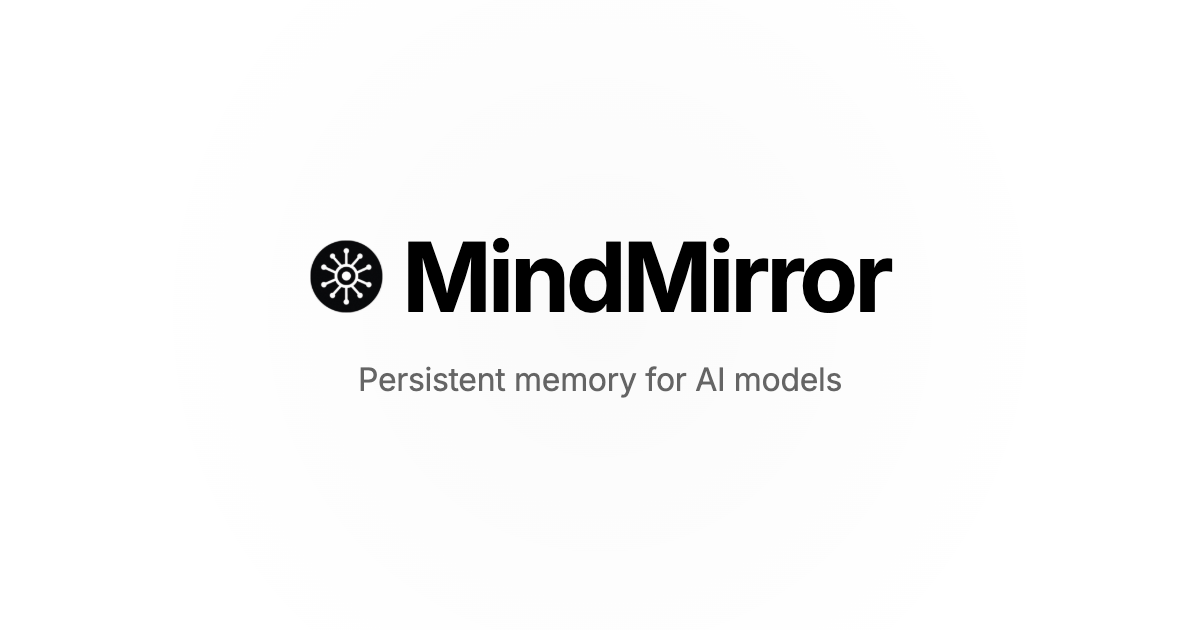
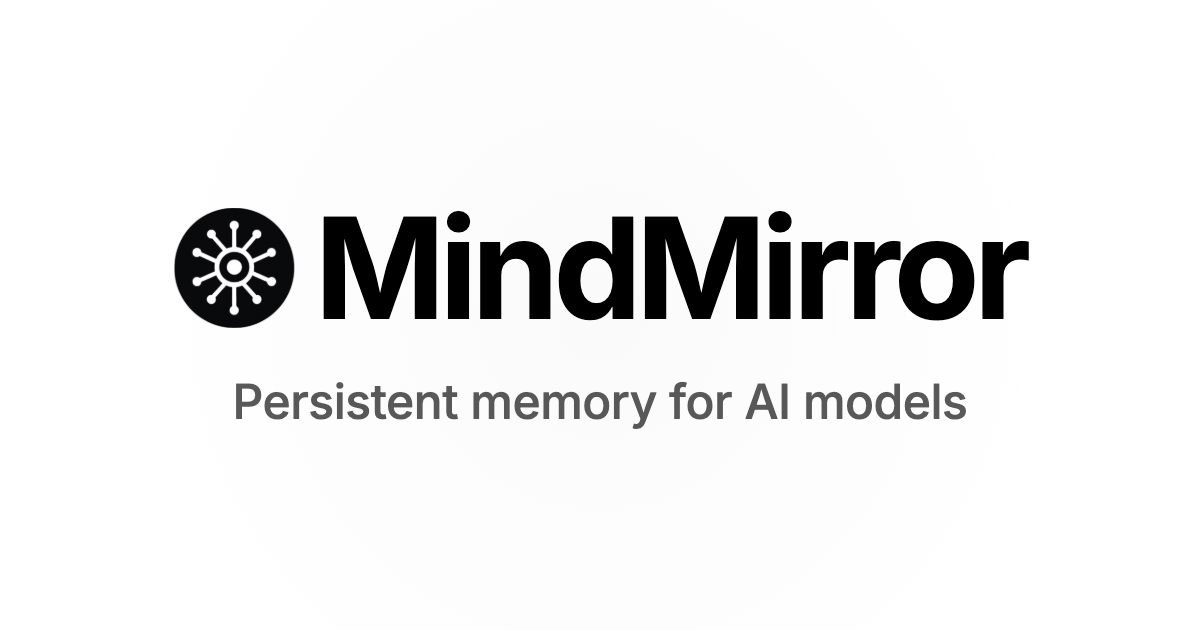
Increase OG image text sizes for better WhatsApp readability
- Logo: 72px → 120px
- Title: 96px → 140px
- Subtitle: 32px → 48px (weight 400 → 500)

Text now matches readability of other professional previews like Manus

🤖 Generated with [Claude Code](https://claude.com/claude-code)

Changed region(s): [[0.1233, 0.3317, 0.8633, 0.5429], [0.185, 0.573, 0.8017, 0.6937]]

diff --git a/og-image-template.html b/og-image-template.html
@@ -42,13 +42,13 @@
         }
 
         .logo {
-            width: 72px;
-            height: 72px;
-            border-radius: 12px;
+            width: 120px;
+            height: 120px;
+            border-radius: 16px;
         }
 
         h1 {
-            font-size: 96px;
+            font-size: 140px;
             font-weight: 700;
             color: #000000;
             letter-spacing: -0.04em;
@@ -56,11 +56,11 @@
         }
 
         p {
-            font-size: 32px;
-            font-weight: 400;
-            color: rgba(0, 0, 0, 0.6);
+            font-size: 48px;
+            font-weight: 500;
+            color: rgba(0, 0, 0, 0.65);
             letter-spacing: -0.01em;
-            line-height: 1.4;
+            line-height: 1.3;
         }
 
         /* Subtle gradient overlay */
